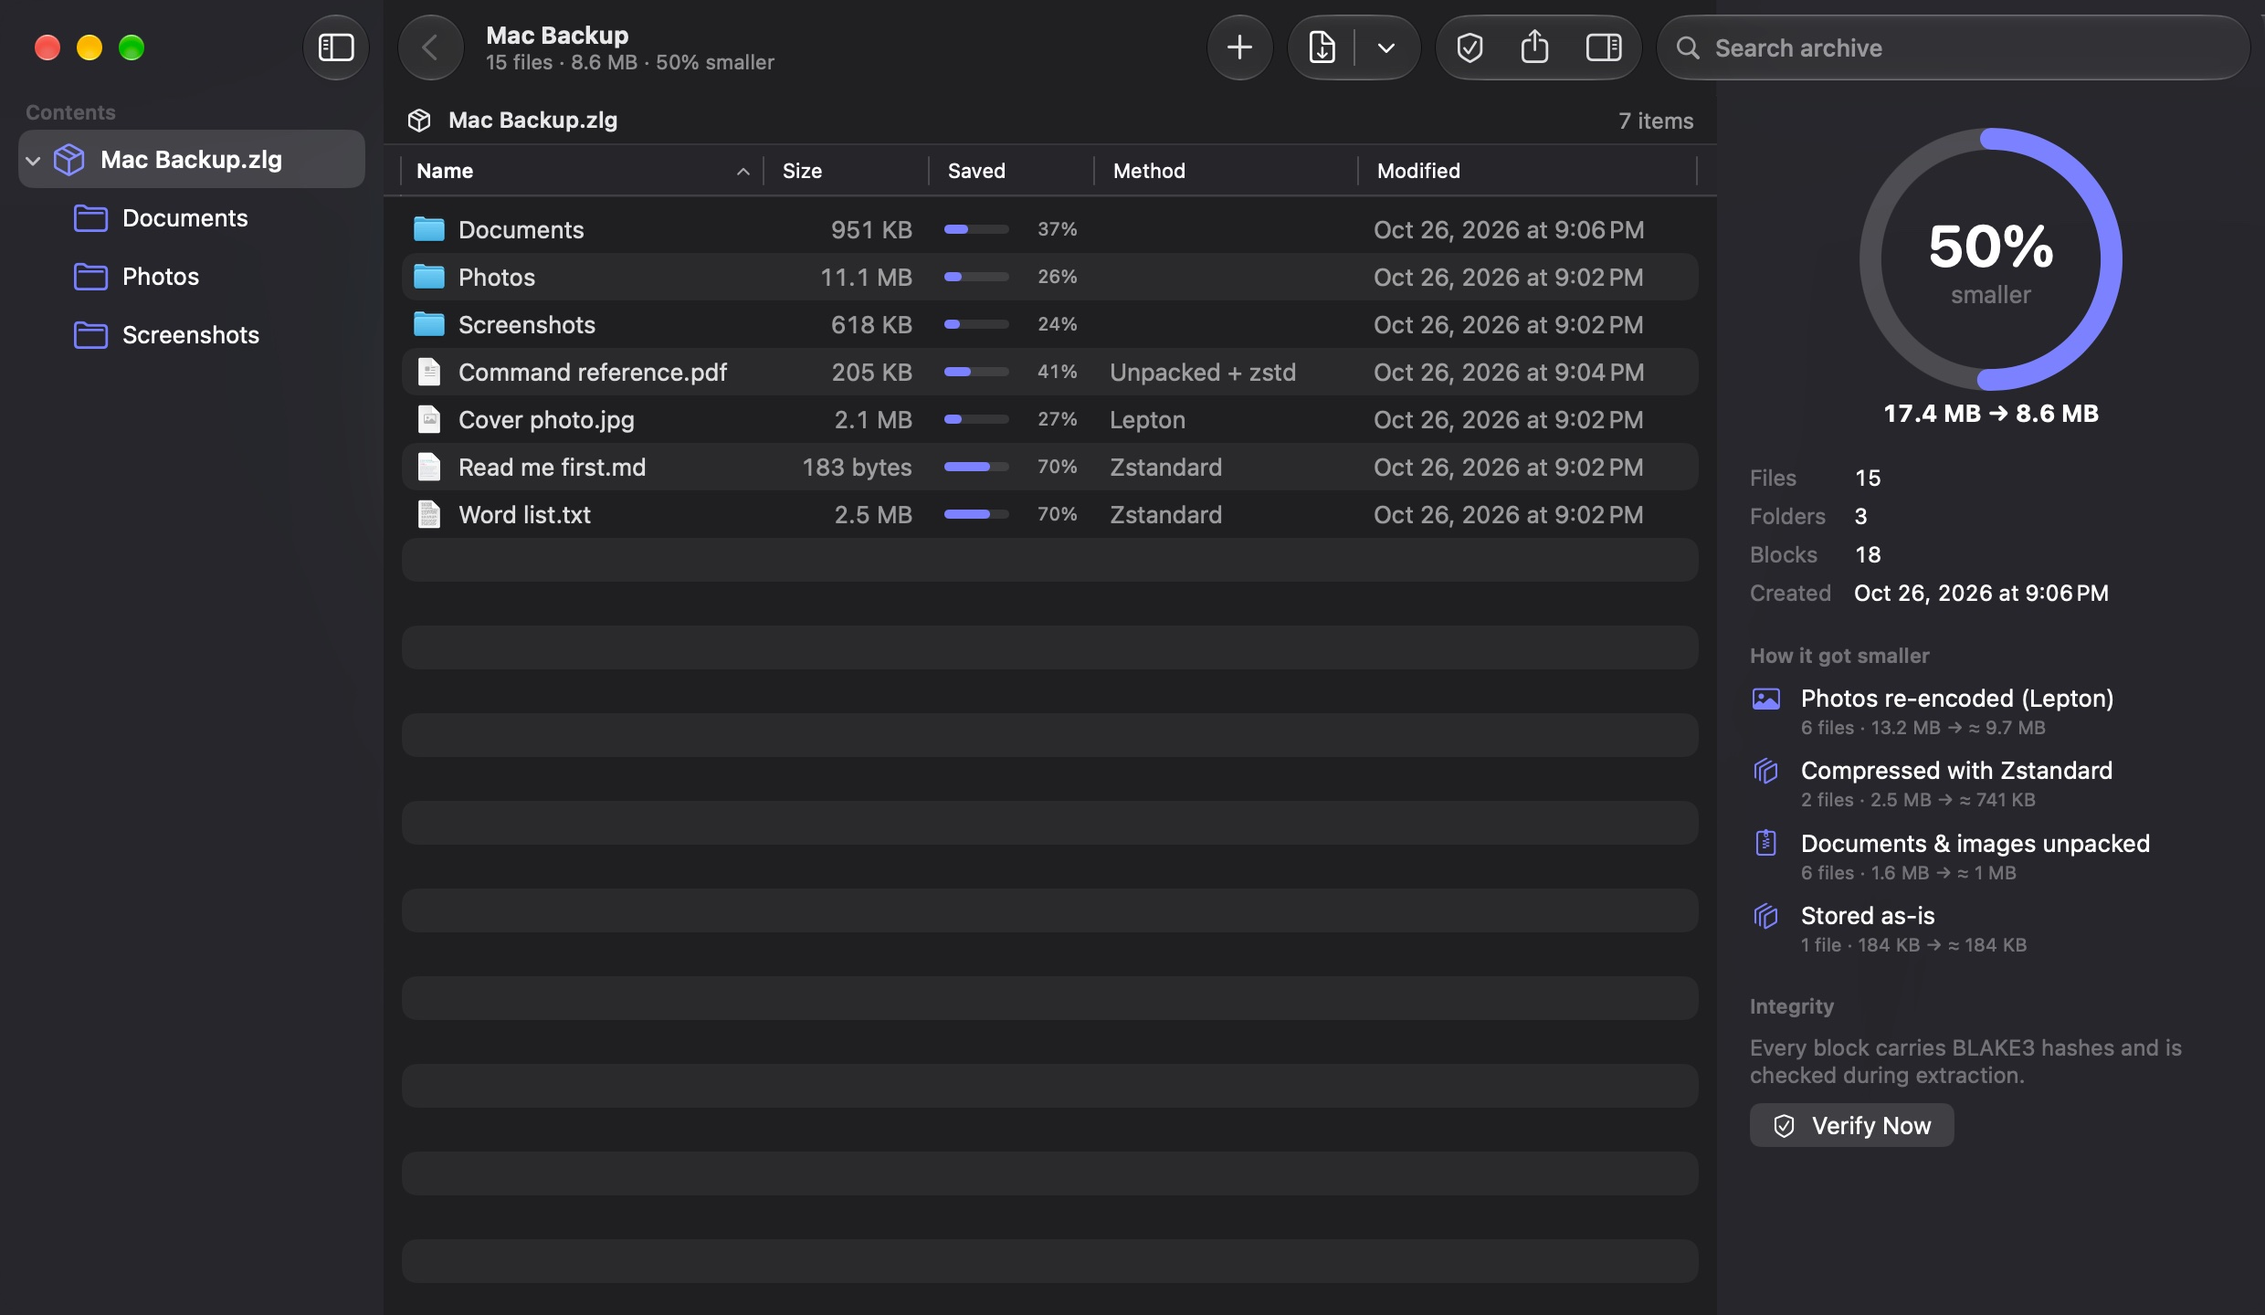
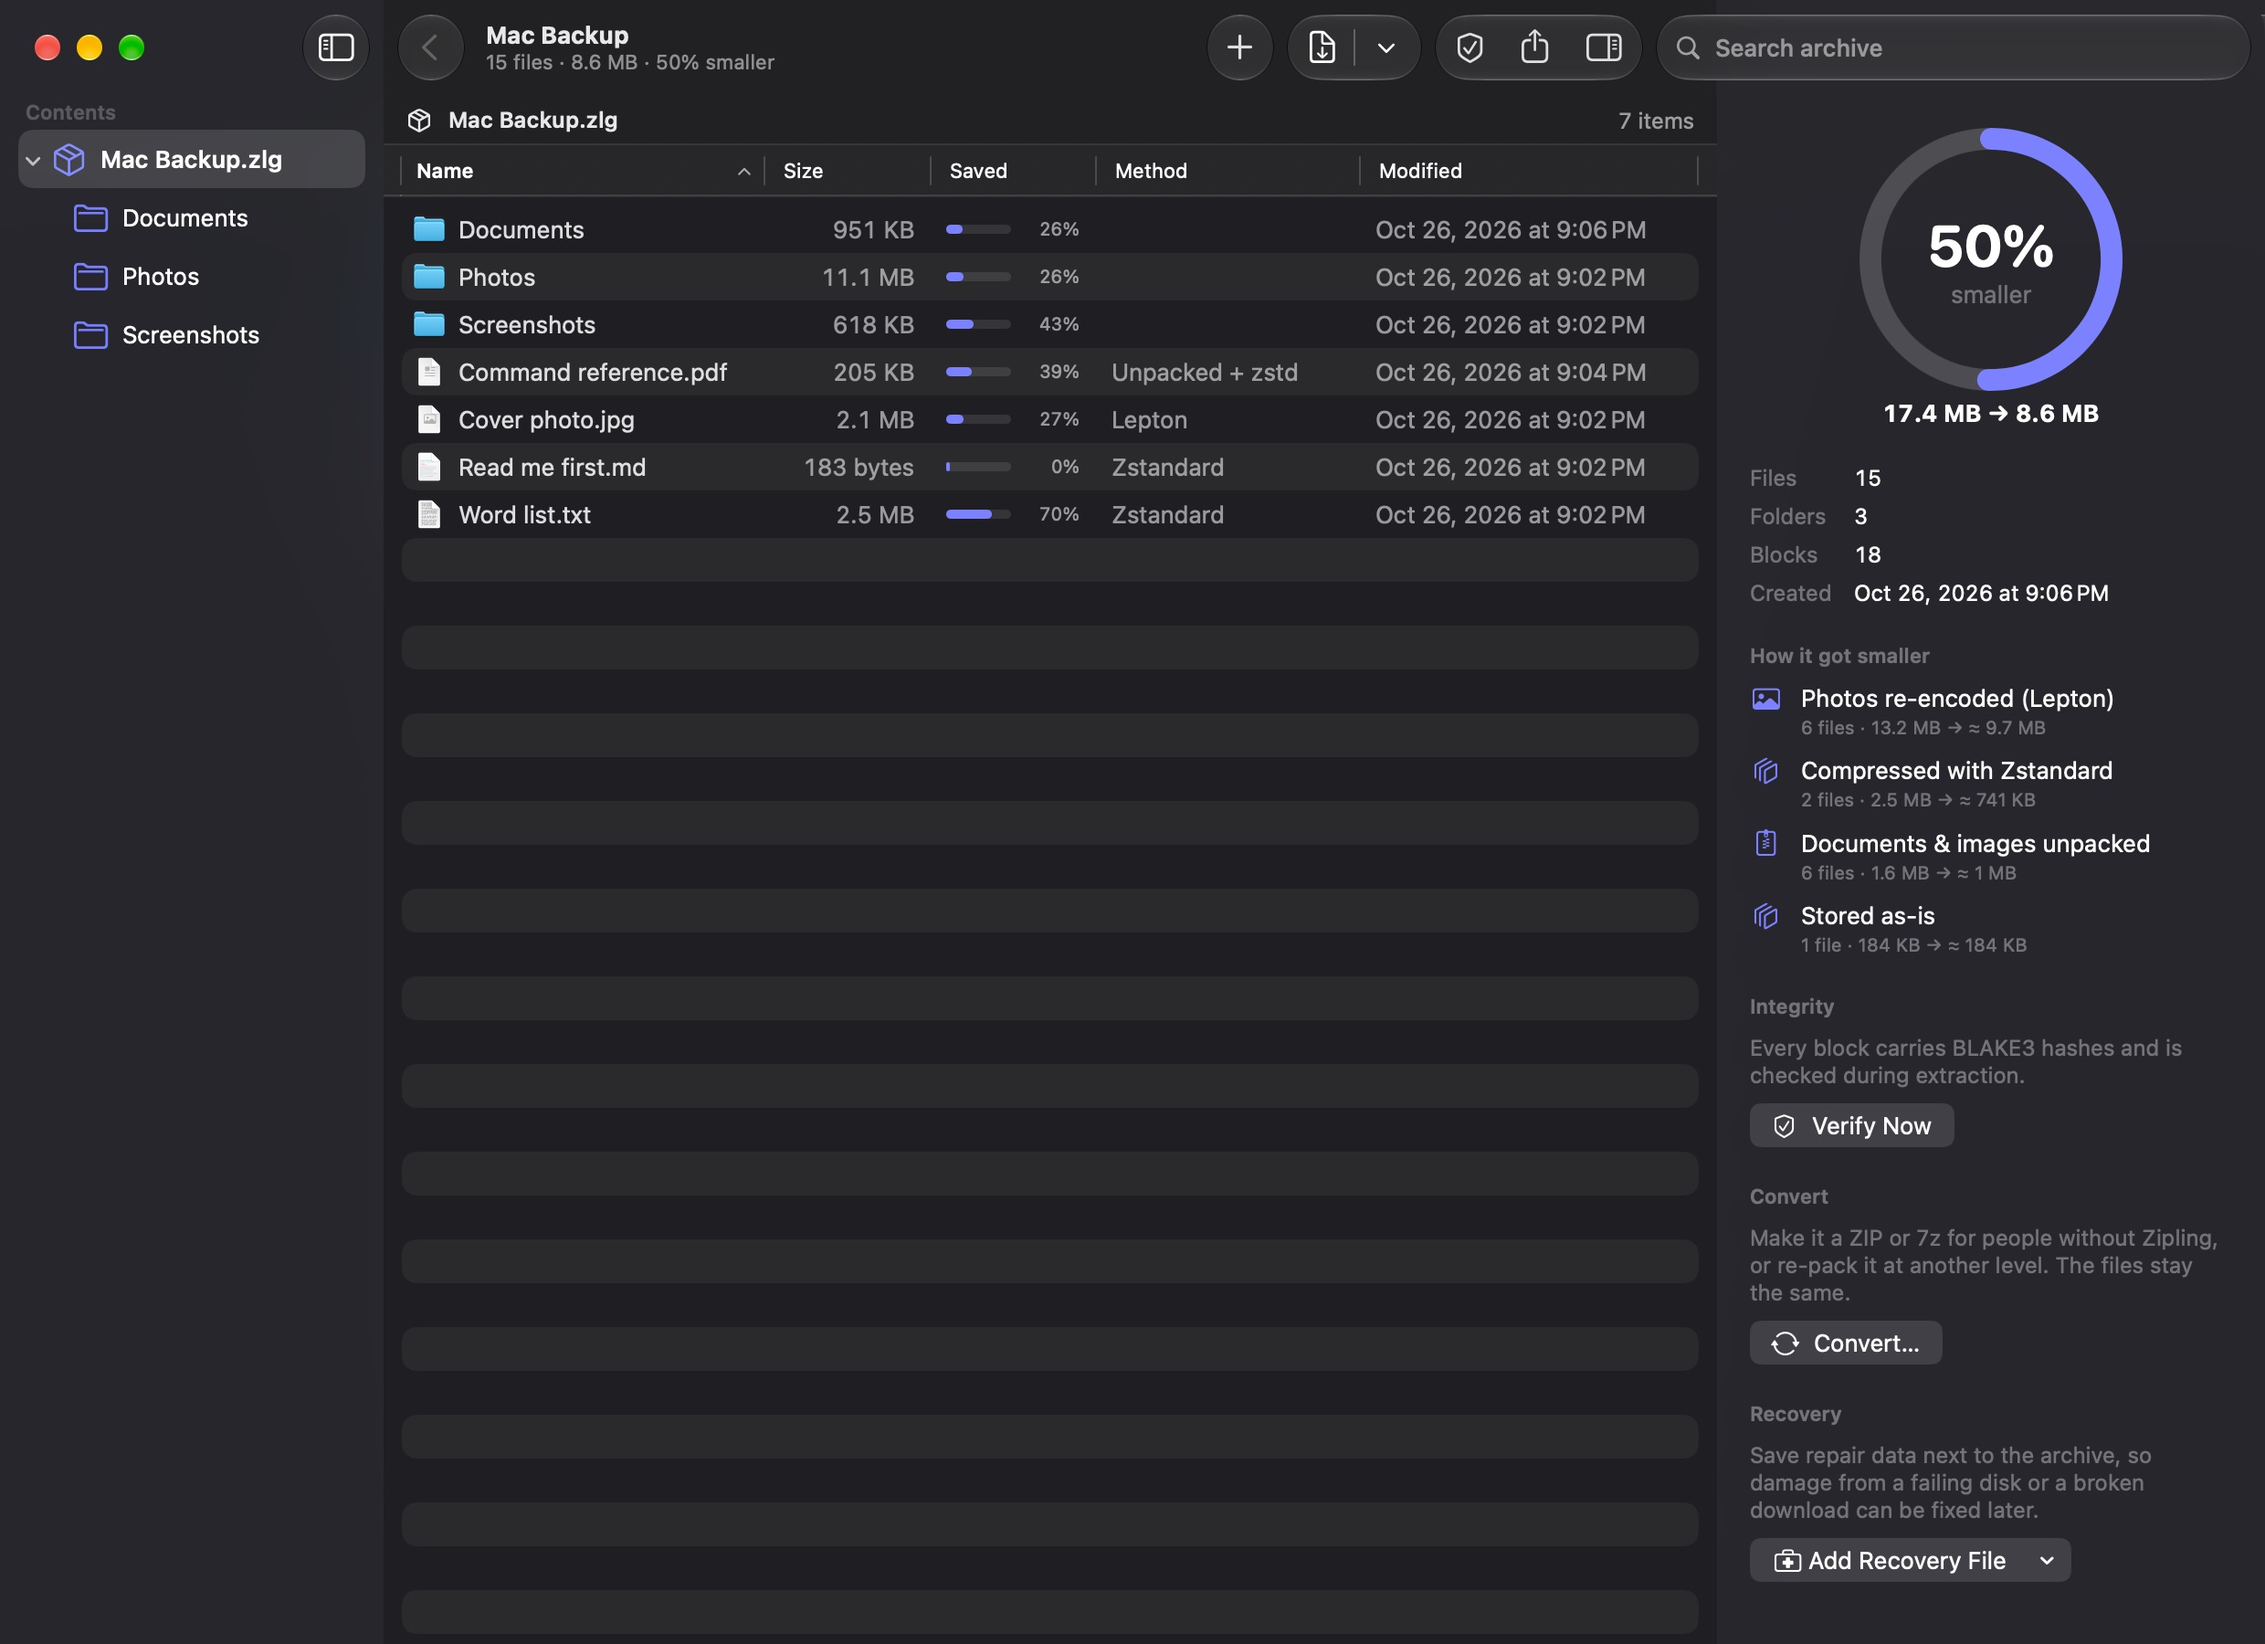
Site: convert, shrink later, recovery files and automation
The app section lists the new features, the FAQ answers how to shrink
existing archives and what to do about damage, the privacy page explains
the Spotlight index (local, and removable in Settings), and the hero
screenshot shows the inspector's new Convert and Recovery sections with
the current per-folder estimates. "Coming in 1.0" now has recovery data
inside Zipling archives in place of recovery records, which are here.

diff --git a/index.html b/index.html
@@ -52,7 +52,7 @@
         <p class="fine">Not available to download yet · For Apple silicon Macs</p>
       </div>
       <figure class="hero-shot reveal">
-        <img src="assets/app-archive.jpg" alt="A Zipling archive window for Mac Backup.zlg: 15 files, 17.4 MB packed to 8.6 MB (50% smaller). A folder tree is on the left, the list shows each item's savings and method (Lepton for a photo, Unpacked + zstd for a PDF, Zstandard for text), and the inspector explains how the archive got smaller." width="2480" height="1440">
+        <img src="assets/app-archive.jpg" alt="A Zipling archive window for Mac Backup.zlg: 15 files, 17.4 MB packed to 8.6 MB (50% smaller). A folder tree is on the left, the list shows each item's savings and method (Lepton for a photo, Unpacked + zstd for a PDF, Zstandard for text), and the inspector explains how the archive got smaller, with buttons to verify it, convert it and add a recovery file." width="2480" height="1800">
       </figure>
     </section>
 
@@ -200,7 +200,11 @@
             <li>Quick Look and drag out any file without extracting the rest</li>
             <li>Makes Zipling, ZIP, 7z and TAR archives, encrypted and split, and edits them in place</li>
             <li>Extract Here keeps things tidy, in the background, with progress on the Dock</li>
+            <li>Converts any archive to Zipling, ZIP or 7z, and shows the new size and time before you start</li>
+            <li>Compress fast now: Zipling shrinks it to Max later, while your Mac is idle and plugged in</li>
+            <li>Recovery files repair a damaged archive, byte for byte</li>
             <li>Lives in Finder: Quick Look for archives, right-click menu, menu-bar drop zone</li>
+            <li>Works with Shortcuts, AppleScript and Folder Actions, and Spotlight finds archives by the files inside</li>
             <li>Safe extraction: nothing escapes the folder, and downloaded files stay marked for Gatekeeper</li>
           </ul>
         </div>
@@ -213,7 +217,7 @@
         <h3>Coming in 1.0</h3>
         <ul data-stagger>
           <li><strong>Mounts like a disk</strong>Browse an archive in Finder as if it were a folder</li>
-          <li><strong>Survives damage</strong>Recovery records that repair broken archives</li>
+          <li><strong>Heals itself</strong>Recovery data inside Zipling archives, no extra file</li>
           <li><strong>Locks Zipling archives</strong>Passwords and split parts for the .zlg format too</li>
           <li><strong>Feels native</strong>A fresh design, full keyboard and VoiceOver support</li>
           <li><strong>Runs on every Mac</strong>Intel Macs too, signed and notarised</li>
@@ -249,6 +253,14 @@
         <details>
           <summary>Can people without Zipling open my archives?</summary>
           <p>Zipling's own <code>.zlg</code> format is for when you want the smallest archive. When you share with someone who doesn't have Zipling, it creates standard ZIP, 7z and TAR archives that open anywhere, with AES-256 encryption and split parts if you want them.</p>
+        </details>
+        <details>
+          <summary>Can Zipling make the archives I already have smaller?</summary>
+          <p>Yes. Convert turns any archive Zipling opens into a Zipling archive, or into a tighter ZIP or 7z that still opens anywhere. It shows the new size and how long it will take before you start, checks the new archive once it's written, and only then moves the old one to the Trash if you ask it to.</p>
+        </details>
+        <details>
+          <summary>What if an archive gets damaged?</summary>
+          <p>Give it a recovery file. Zipling saves repair data next to any archive, at 5, 10 or 20% of its size, and if the archive is later damaged by a failing disk or a broken download, it rebuilds the damaged parts exactly, byte for byte. If more is damaged than the recovery file can cover, Zipling tells you instead of guessing. It works for any archive, not just Zipling's own.</p>
         </details>
         <details>
           <summary>What is Arca?</summary>

diff --git a/privacy.html b/privacy.html
@@ -52,6 +52,7 @@
       <ul>
         <li>Zipling works entirely on your Mac. Your files and archives are never uploaded anywhere.</li>
         <li>There is no account, no analytics and no telemetry.</li>
+        <li>So Spotlight can find files inside your archives, Zipling adds the names of the files in archives you open to your Mac's own Spotlight index. That index never leaves your Mac, and you can turn this off and remove everything Zipling added in Settings.</li>
         <li>If a future version adds anything that connects to the internet, such as checking for updates, this page will say exactly what is sent before that version is released.</li>
       </ul>
 
